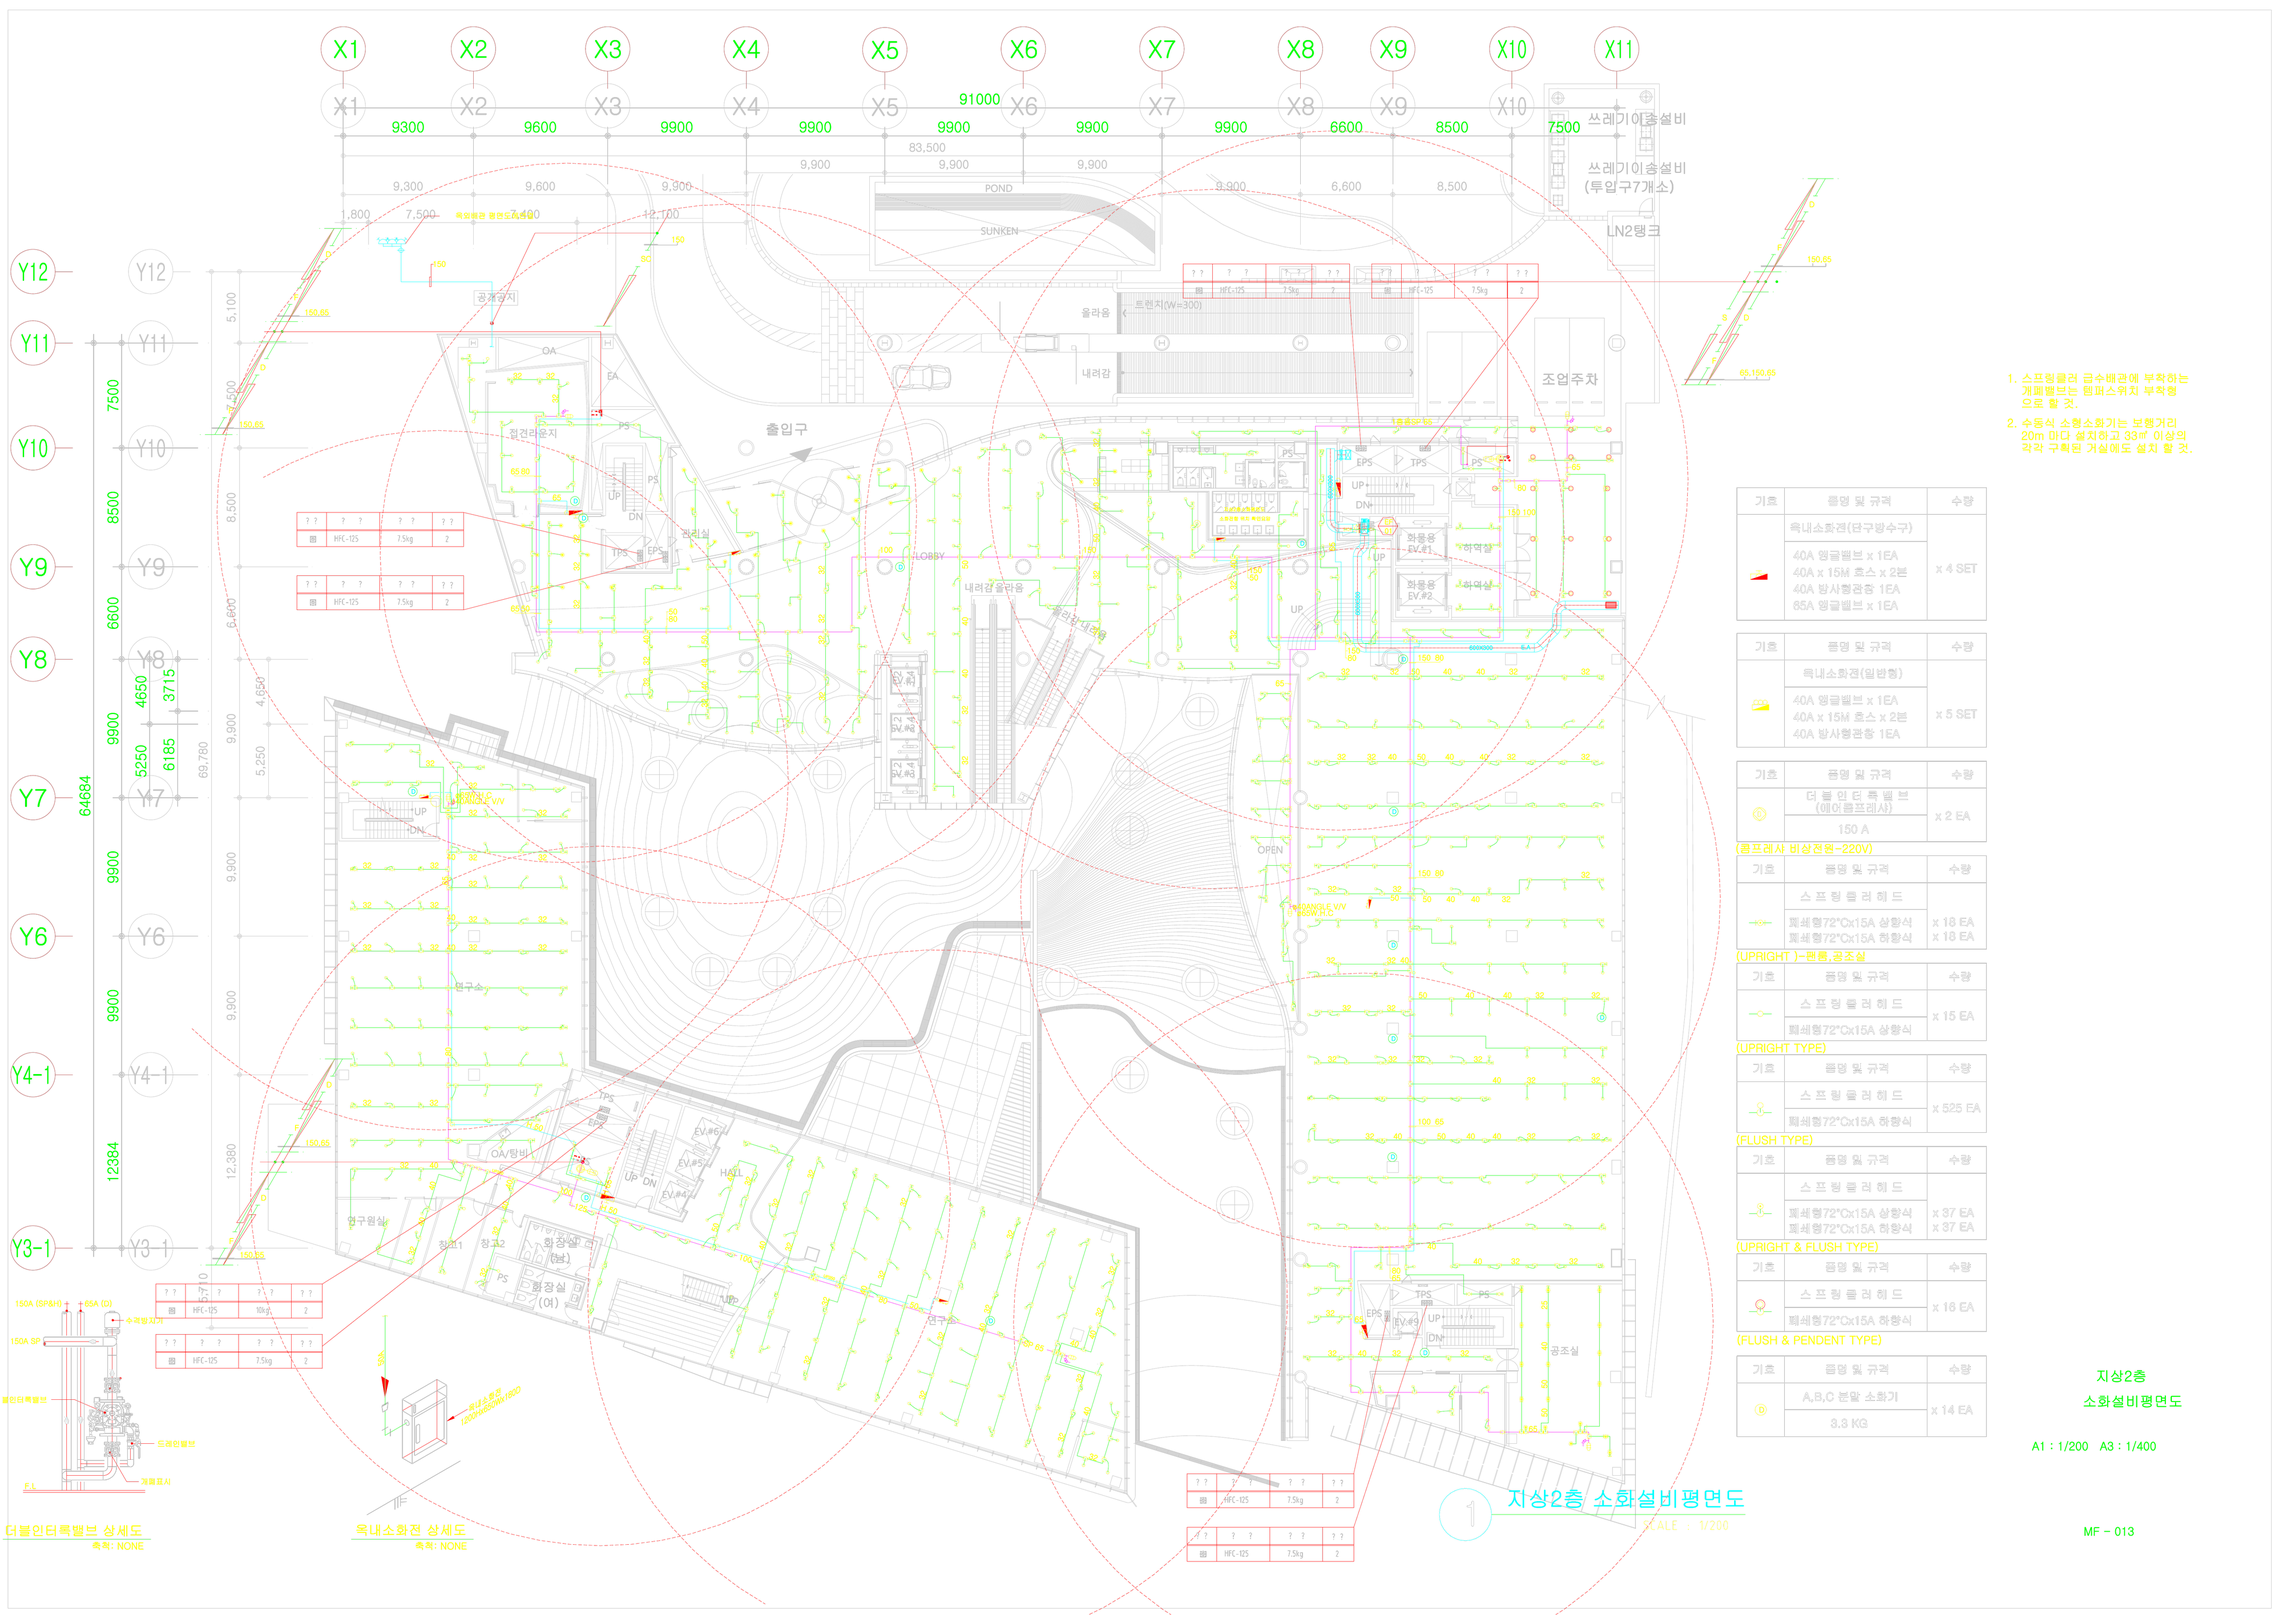
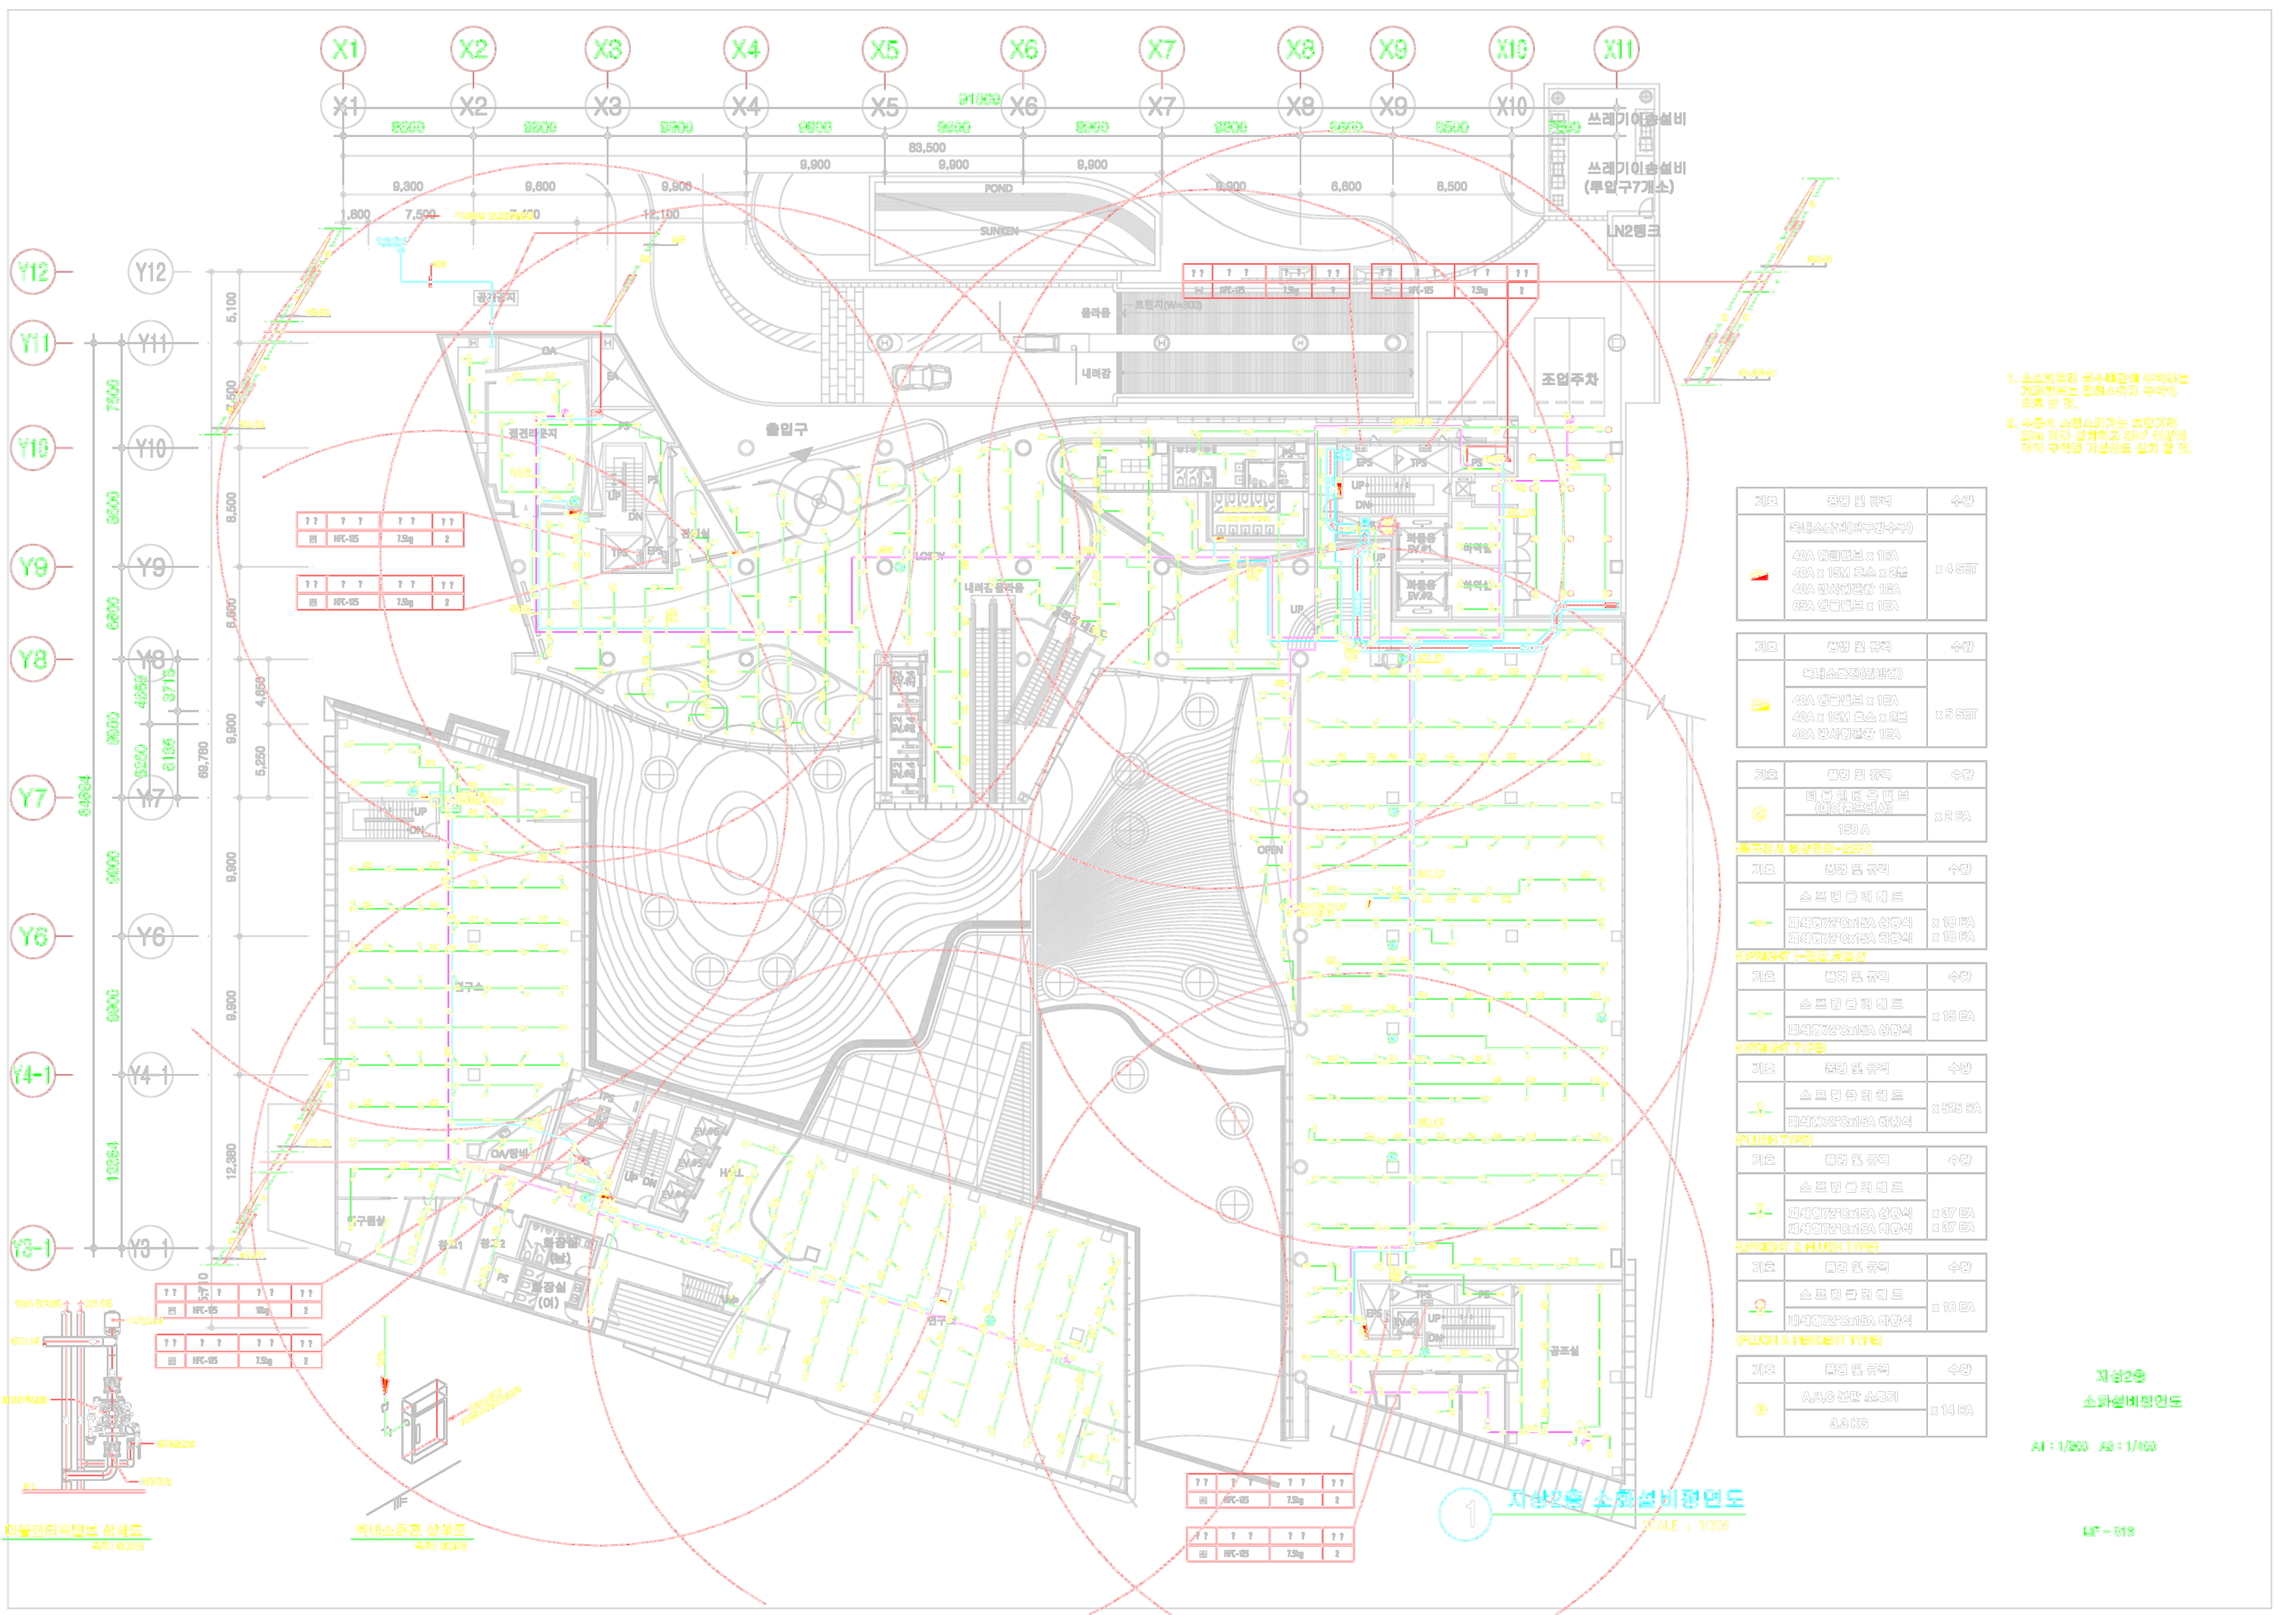
fix(floorplan): 2F PNG +1px dilation (모바일 축소 시 라인 가시성 회복) — alpha=255 2.6% → 6.0% (1F 5.3% 매칭). v11 → v12

diff --git a/cha-bio-safety/src/pages/FloorPlanPage.tsx b/cha-bio-safety/src/pages/FloorPlanPage.tsx
@@ -277,7 +277,7 @@ function MarkerIcon({
 
 // ── 도면 파일 경로 ──────────────────────────────────────
 function getFloorPlanUrl(planType: PlanType, floor: string) {
-  return `/floorplans/${planType}/${floor}.png?v=11`
+  return `/floorplans/${planType}/${floor}.png?v=12`
 }
 
 // ══════════════════════════════════════════════════════
